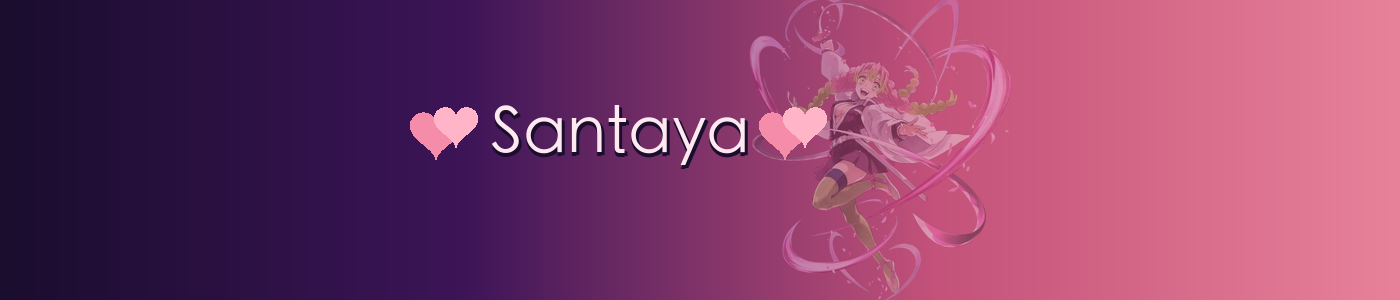
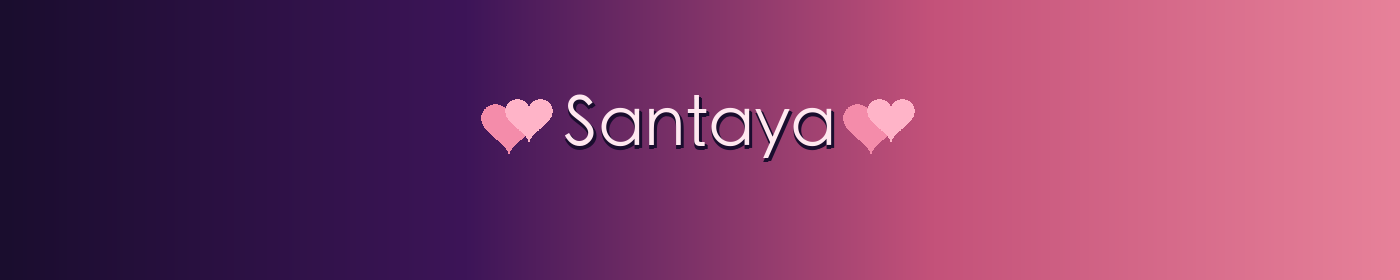
update: 角色移入About Me模块+粉绿双色背景卡片+banner去角色

diff --git a/README.md b/README.md
@@ -15,17 +15,24 @@
 
 ### 💕 About Me 💕
 
+<table align="center" cellpadding="0" cellspacing="0" border="0">
+<tr>
+<td bgcolor="#FFF0F5" align="center" valign="middle" width="220">
+<br/>
+<img src="https://raw.githubusercontent.com/huangyaling658-creator/huangyaling658-creator/main/assets/mitsuri-action.png" width="180"/>
+<br/><br/>
+</td>
+<td bgcolor="#F0FFF0" align="left" valign="middle" width="480">
+&emsp; 🍁 <b>Position:</b> AI Product Manager | OPC Practitioner <br/>
+&emsp; 🌿 <b>Focus:</b> Vibecoding · OpenClaw · AI Skill Building <br/>
+&emsp; 🤎 <b>Aspiration:</b> To be a tree — striking roots deep <br/>
+&emsp;&emsp;&ensp; downward, growing tall upward.
+<br/><br/>
+</td>
+</tr>
+</table>
+
 </div>
-
-<p align="center">
-
-🍁 **Position:** &ensp; AI Product Manager &ensp;|&ensp; OPC Practitioner
-
-🌿 **Focus:** &ensp; Vibecoding · OpenClaw · AI Skill Building
-
-🤎 **Aspiration:** &ensp; To be a tree — striking roots deep downward, growing tall upward.
-
-</p>
 
 ---
 
